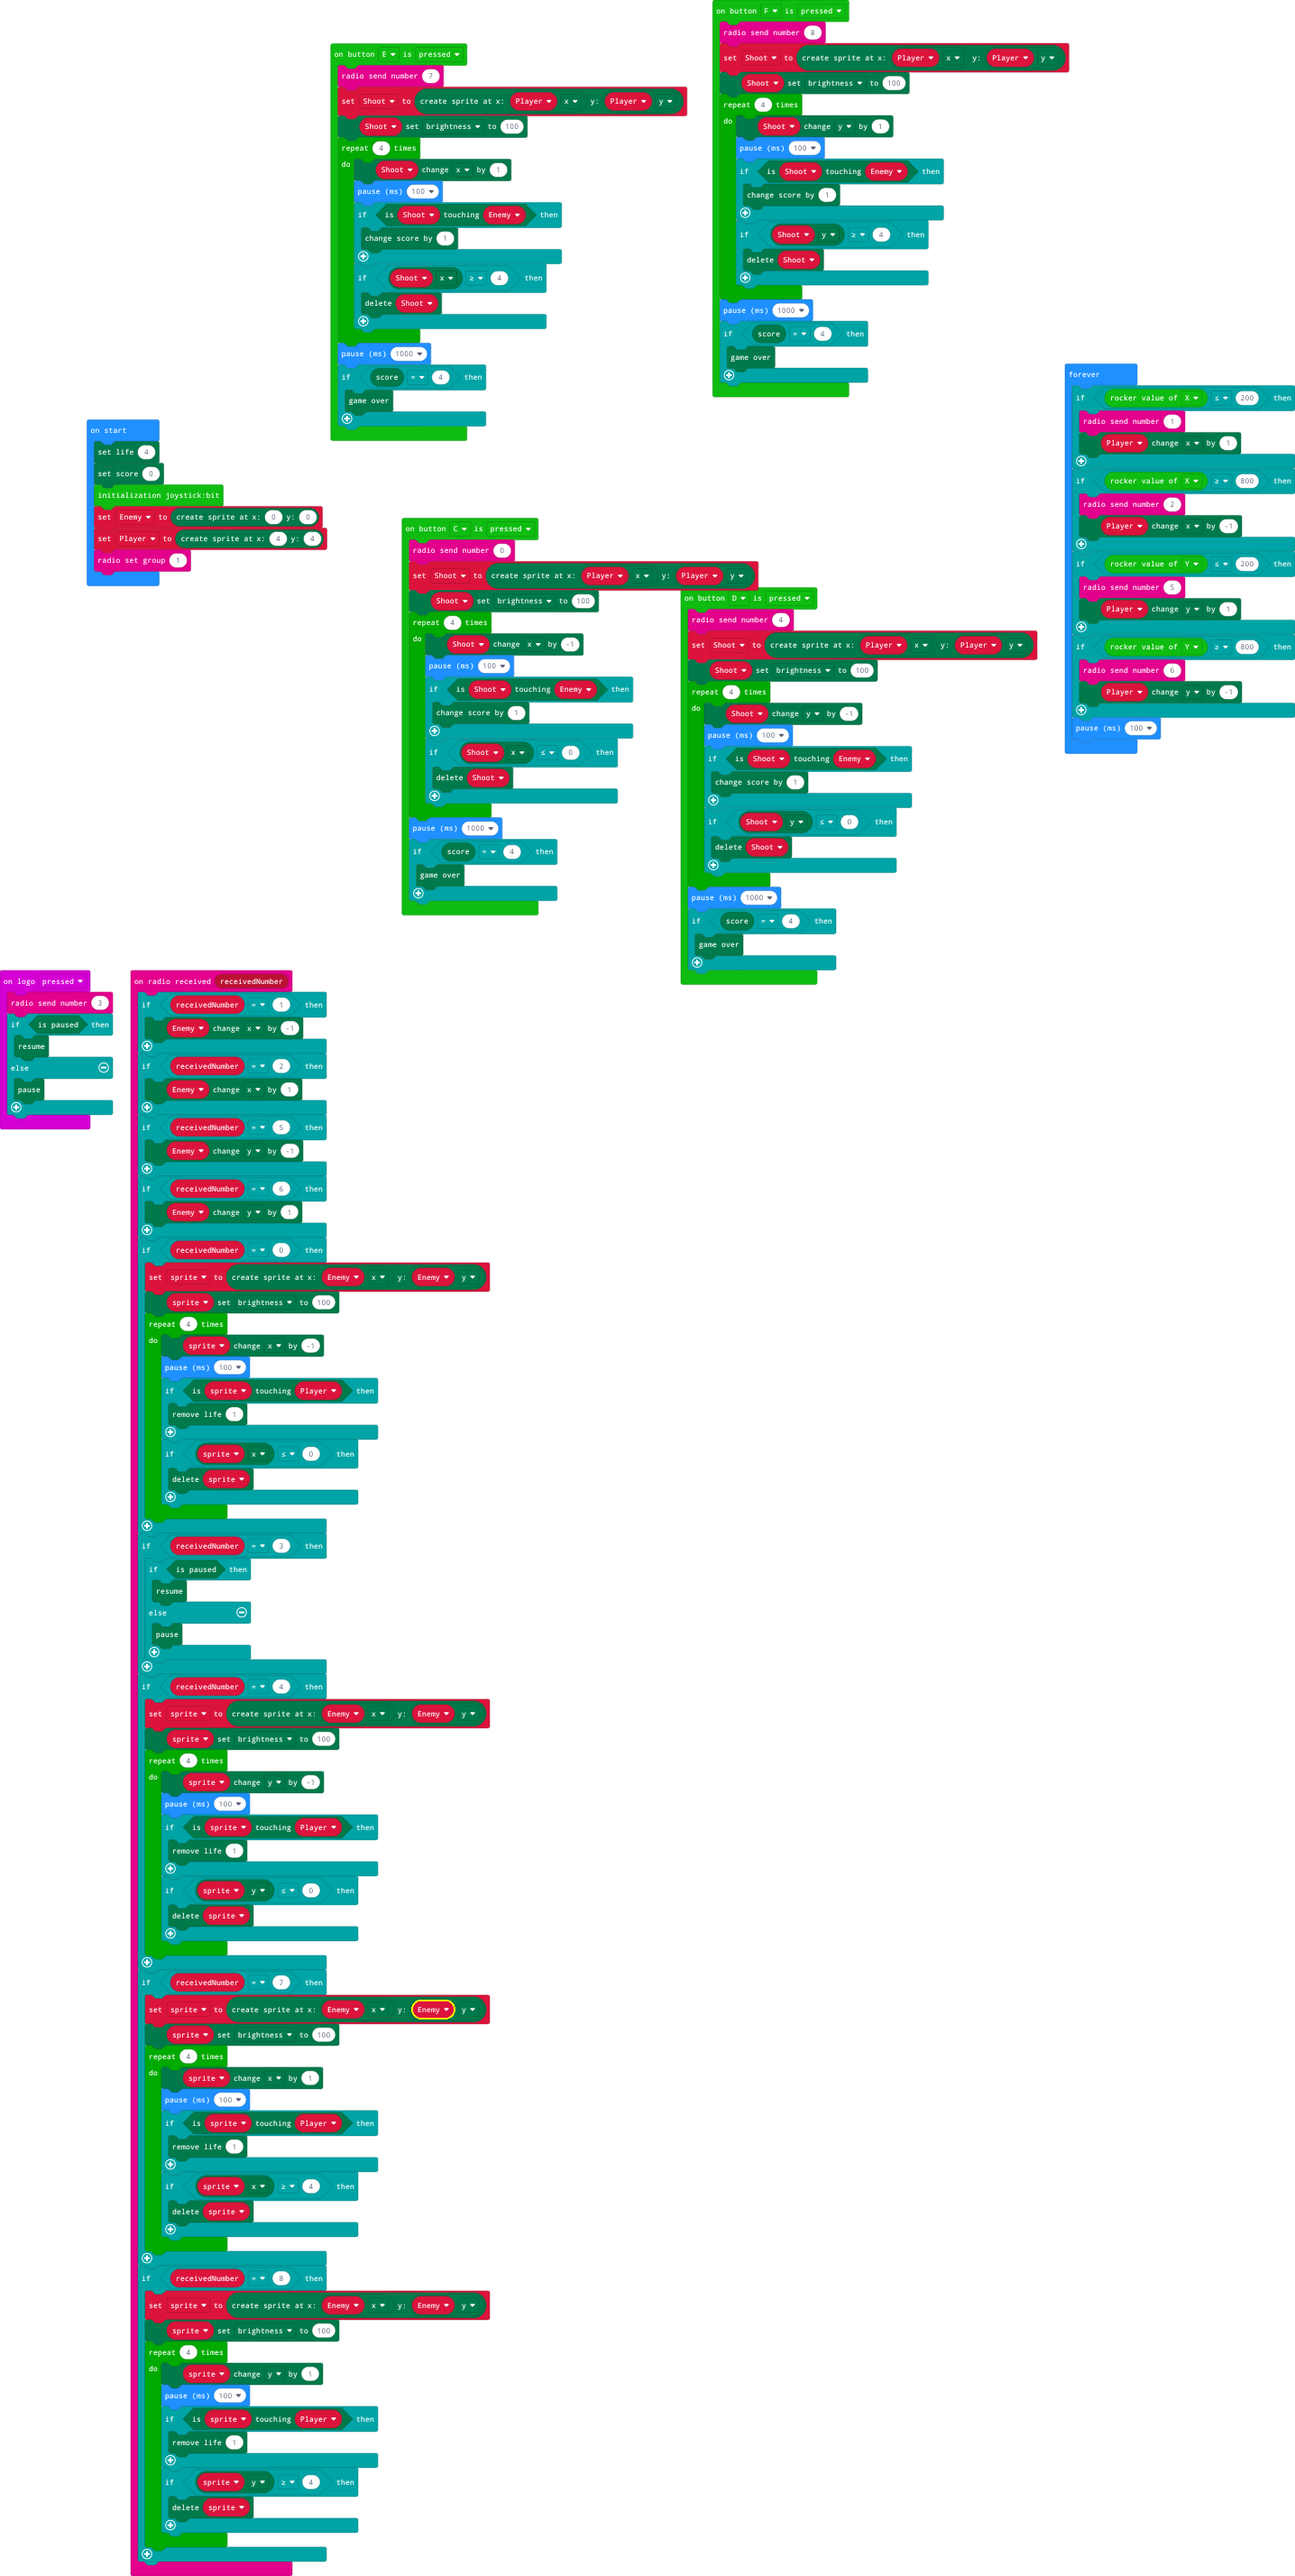
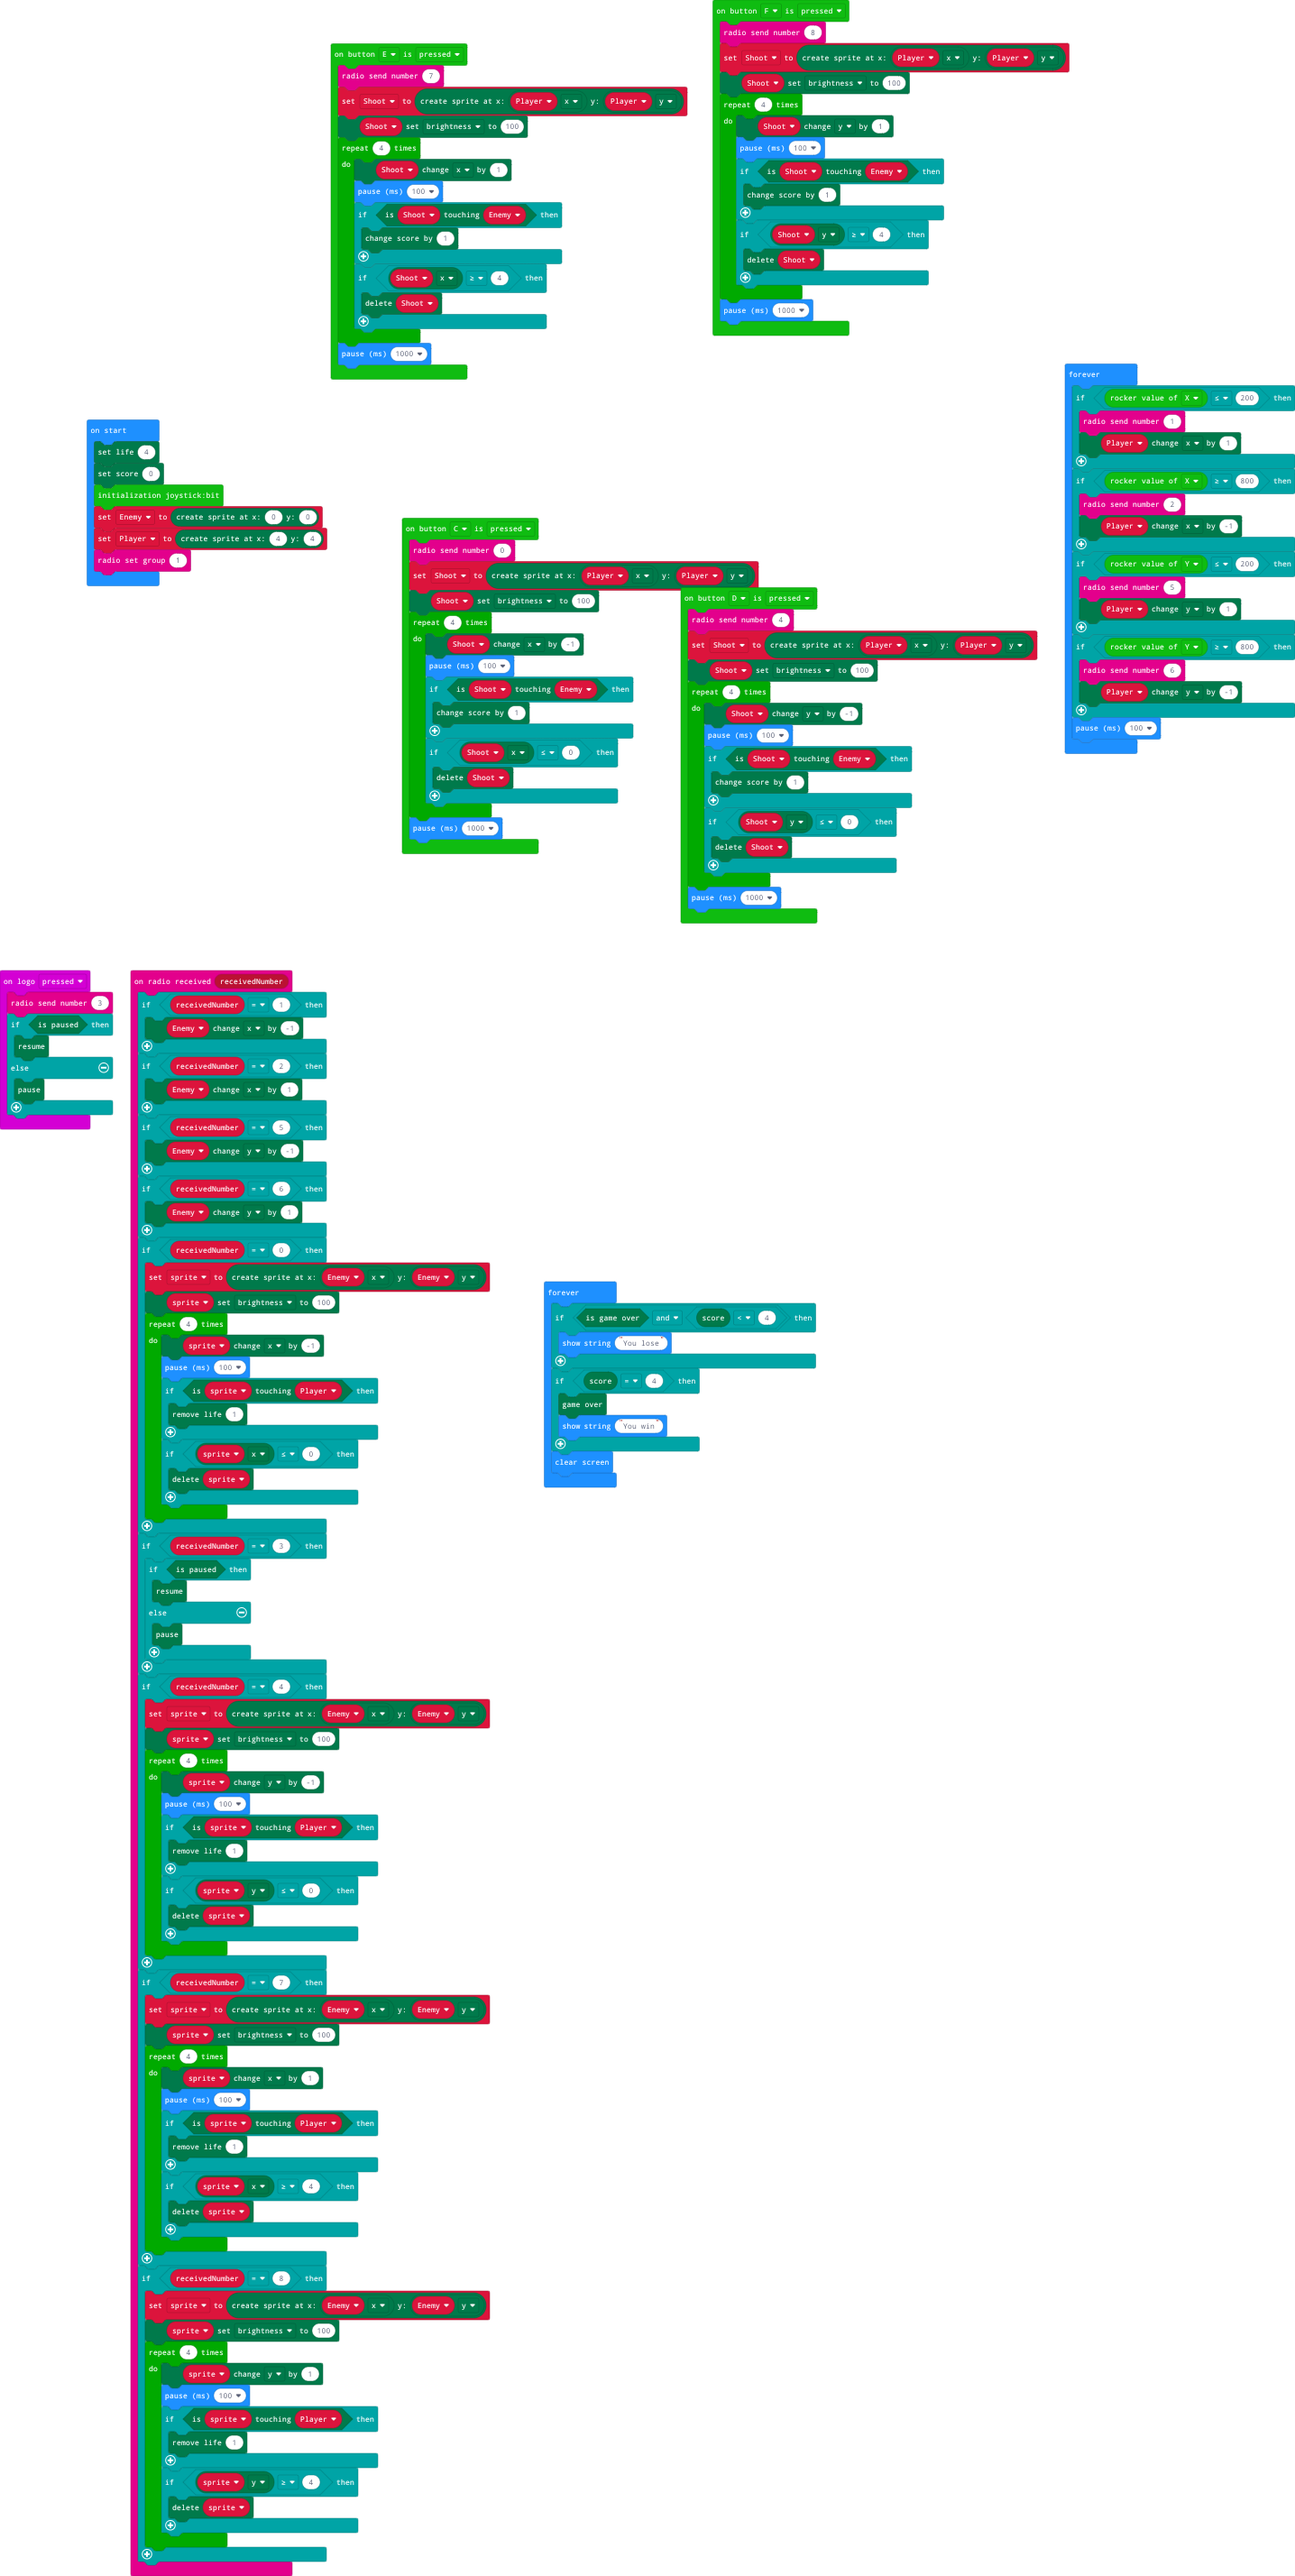
Update pxt.json, main.blocks, main.ts, main.py

diff --git a/main.ts b/main.ts
@@ -90,9 +90,6 @@ joystickbit.onButtonEvent(joystickbit.JoystickBitPin.P14, joystickbit.ButtonType
         }
     }
     basic.pause(1000)
-    if (game.score() == 4) {
-        game.gameOver()
-    }
 })
 joystickbit.onButtonEvent(joystickbit.JoystickBitPin.P15, joystickbit.ButtonType.down, function () {
     radio.sendNumber(8)
@@ -109,9 +106,6 @@ joystickbit.onButtonEvent(joystickbit.JoystickBitPin.P15, joystickbit.ButtonType
         }
     }
     basic.pause(1000)
-    if (game.score() == 4) {
-        game.gameOver()
-    }
 })
 joystickbit.onButtonEvent(joystickbit.JoystickBitPin.P13, joystickbit.ButtonType.down, function () {
     radio.sendNumber(4)
@@ -128,9 +122,6 @@ joystickbit.onButtonEvent(joystickbit.JoystickBitPin.P13, joystickbit.ButtonType
         }
     }
     basic.pause(1000)
-    if (game.score() == 4) {
-        game.gameOver()
-    }
 })
 joystickbit.onButtonEvent(joystickbit.JoystickBitPin.P12, joystickbit.ButtonType.down, function () {
     radio.sendNumber(0)
@@ -147,9 +138,6 @@ joystickbit.onButtonEvent(joystickbit.JoystickBitPin.P12, joystickbit.ButtonType
         }
     }
     basic.pause(1000)
-    if (game.score() == 4) {
-        game.gameOver()
-    }
 })
 input.onLogoEvent(TouchButtonEvent.Pressed, function () {
     radio.sendNumber(3)
@@ -187,4 +175,14 @@ basic.forever(function () {
         Player.change(LedSpriteProperty.Y, -1)
     }
     basic.pause(100)
+})
+basic.forever(function () {
+    if (game.isGameOver() && game.score() < 4) {
+        basic.showString("You lose")
+    }
+    if (game.score() == 4) {
+        game.gameOver()
+        basic.showString("You win")
+    }
+    basic.clearScreen()
 })

diff --git a/main.py b/main.py
@@ -35,15 +35,77 @@ def on_received_number(receivedNumber):
                 game.remove_life(1)
             if sprite.get(LedSpriteProperty.Y) <= 0:
                 sprite.delete()
+    if receivedNumber == 7:
+        sprite = game.create_sprite(Enemy.get(LedSpriteProperty.X),
+            Enemy.get(LedSpriteProperty.Y))
+        sprite.set(LedSpriteProperty.BRIGHTNESS, 100)
+        for index3 in range(4):
+            sprite.change(LedSpriteProperty.X, 1)
+            basic.pause(100)
+            if sprite.is_touching(Player):
+                game.remove_life(1)
+            if sprite.get(LedSpriteProperty.X) >= 4:
+                sprite.delete()
+    if receivedNumber == 8:
+        sprite = game.create_sprite(Enemy.get(LedSpriteProperty.X),
+            Enemy.get(LedSpriteProperty.Y))
+        sprite.set(LedSpriteProperty.BRIGHTNESS, 100)
+        for index4 in range(4):
+            sprite.change(LedSpriteProperty.Y, 1)
+            basic.pause(100)
+            if sprite.is_touching(Player):
+                game.remove_life(1)
+            if sprite.get(LedSpriteProperty.Y) >= 4:
+                sprite.delete()
 radio.on_received_number(on_received_number)
 
 def my_function():
+    global Shoot
+    radio.send_number(7)
+    Shoot = game.create_sprite(Player.get(LedSpriteProperty.X),
+        Player.get(LedSpriteProperty.Y))
+    Shoot.set(LedSpriteProperty.BRIGHTNESS, 100)
+    for index5 in range(4):
+        Shoot.change(LedSpriteProperty.X, 1)
+        basic.pause(100)
+        if Shoot.is_touching(Enemy):
+            game.add_score(1)
+        if Shoot.get(LedSpriteProperty.X) >= 4:
+            Shoot.delete()
+    basic.pause(1000)
+    if game.score() == 4:
+        game.game_over()
+joystickbit.on_button_event(joystickbit.JoystickBitPin.P14,
+    joystickbit.ButtonType.DOWN,
+    my_function)
+
+def my_function2():
+    global Shoot
+    radio.send_number(8)
+    Shoot = game.create_sprite(Player.get(LedSpriteProperty.X),
+        Player.get(LedSpriteProperty.Y))
+    Shoot.set(LedSpriteProperty.BRIGHTNESS, 100)
+    for index6 in range(4):
+        Shoot.change(LedSpriteProperty.Y, 1)
+        basic.pause(100)
+        if Shoot.is_touching(Enemy):
+            game.add_score(1)
+        if Shoot.get(LedSpriteProperty.Y) >= 4:
+            Shoot.delete()
+    basic.pause(1000)
+    if game.score() == 4:
+        game.game_over()
+joystickbit.on_button_event(joystickbit.JoystickBitPin.P15,
+    joystickbit.ButtonType.DOWN,
+    my_function2)
+
+def my_function3():
     global Shoot
     radio.send_number(4)
     Shoot = game.create_sprite(Player.get(LedSpriteProperty.X),
         Player.get(LedSpriteProperty.Y))
     Shoot.set(LedSpriteProperty.BRIGHTNESS, 100)
-    for index3 in range(4):
+    for index7 in range(4):
         Shoot.change(LedSpriteProperty.Y, -1)
         basic.pause(100)
         if Shoot.is_touching(Enemy):
@@ -55,15 +117,15 @@ def my_function():
         game.game_over()
 joystickbit.on_button_event(joystickbit.JoystickBitPin.P13,
     joystickbit.ButtonType.DOWN,
-    my_function)
+    my_function3)
 
-def my_function2():
+def my_function4():
     global Shoot
     radio.send_number(0)
     Shoot = game.create_sprite(Player.get(LedSpriteProperty.X),
         Player.get(LedSpriteProperty.Y))
     Shoot.set(LedSpriteProperty.BRIGHTNESS, 100)
-    for index4 in range(4):
+    for index8 in range(4):
         Shoot.change(LedSpriteProperty.X, -1)
         basic.pause(100)
         if Shoot.is_touching(Enemy):
@@ -75,7 +137,7 @@ def my_function2():
         game.game_over()
 joystickbit.on_button_event(joystickbit.JoystickBitPin.P12,
     joystickbit.ButtonType.DOWN,
-    my_function2)
+    my_function4)
 
 def on_logo_pressed():
     radio.send_number(3)
